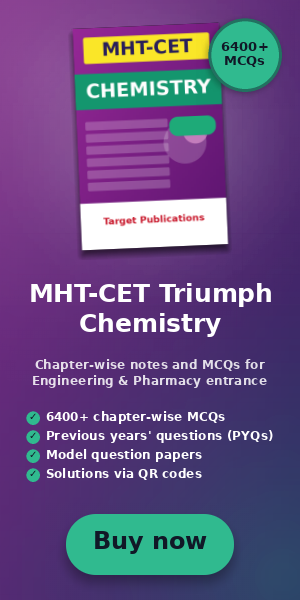
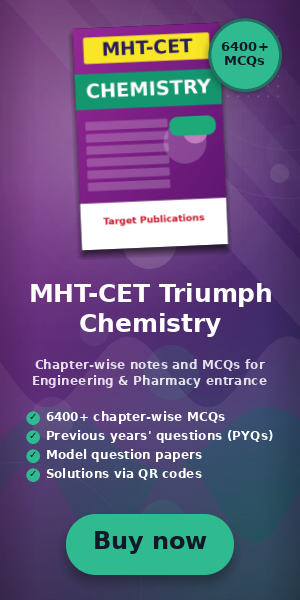
feat: rich "studio" default background
Layered backdrop built from the cover colours: gradient, light beams, accent
blooms, rings, waves, dot grid, bokeh and vignette. New 'studio' and 'waves'
styles; 'auto' now means studio. 'mesh' stays as the simple option.

diff --git a/src/Ads/Backgrounds.php b/src/Ads/Backgrounds.php
@@ -11,7 +11,7 @@ use Packitifotech\Laragdads\Services\Image\ImageService;
 /**
  * Background painters. A painter is `fn (Canvas $canvas, AdSpec $spec, Theme $theme): void`.
  *
- * Built-in modern styles, all coloured from the cover/brand: auto (mesh), mesh, lines, bokeh, hex, gradient,
+ * Built-in modern styles, all coloured from the cover/brand: auto (= studio, the richest), studio, waves, mesh, lines, bokeh, hex, gradient,
  * solid, blur.
  * Legacy styles (wave1, wave, abstract, stripes, radial, spotlight, burst, marketing, medical,
  * mobile-dots, mobile-card, mobile-diagonal, mobile-flat) are the original ImageService painters.
@@ -36,7 +36,9 @@ final class Backgrounds
         }
 
         match ($style) {
-            'auto', 'mesh' => self::mesh($canvas, $theme),
+            'auto', 'studio' => self::studio($canvas, $theme),
+            'waves' => self::waves($canvas, $theme),
+            'mesh' => self::mesh($canvas, $theme),
             'lines' => self::lines($canvas, $theme),
             'bokeh' => self::bokeh($canvas, $theme),
             'hex' => self::hex($canvas, $theme),
@@ -51,7 +53,7 @@ final class Backgrounds
     public static function names(): array
     {
         return array_values(array_unique(array_merge(
-            ['auto', 'mesh', 'lines', 'bokeh', 'hex', 'gradient', 'solid', 'blur'],
+            ['auto', 'studio', 'waves', 'mesh', 'lines', 'bokeh', 'hex', 'gradient', 'solid', 'blur'],
             array_keys(self::legacyMap()),
             array_keys(self::$custom)
         )));
@@ -68,6 +70,117 @@ final class Backgrounds
         $canvas->glow((int) ($w * 0.12), (int) ($h * 0.1), (int) ($long * 0.55), Color::lighten($theme->primary, 0.25), 0.55);
         $canvas->glow((int) ($w * 0.92), (int) ($h * 0.95), (int) ($long * 0.6), $theme->accent, 0.28);
         $canvas->glow((int) ($w * 0.62), (int) ($h * 0.2), (int) ($long * 0.35), Color::lighten($theme->secondary, 0.3), 0.3);
+    }
+
+    /**
+     * The default: a layered, "designed" backdrop. Brand gradient, soft light beams, flowing waves, rings,
+     * a dot grid, bokeh and a vignette. Every element is a translucent tint of the brand colours, so
+     * text contrast stays safe, and it is deterministic for a given size.
+     */
+    private static function studio(Canvas $canvas, Theme $theme): void
+    {
+        $w = $canvas->width();
+        $h = $canvas->height();
+        $long = max($w, $h);
+        $rand = self::rng($w * 13 + $h * 7);
+        $tint = Color::lighten($theme->primary, 0.6);
+        $tint2 = Color::lighten($theme->secondary, 0.5);
+
+        self::mesh($canvas, $theme);
+        // Extra warmth: an accent-coloured bloom low on the canvas and a bright one top-left.
+        $canvas->glow((int) ($w * 0.7), (int) ($h * 1.0), (int) ($long * 0.5), $theme->accent, 0.22);
+        $canvas->glow((int) ($w * 0.25), (int) ($h * 0.2), (int) ($long * 0.4), Color::lighten($theme->primary, 0.5), 0.3);
+
+        // Soft diagonal light beams from the top-left.
+        $canvas->decor(function ($layer, int $k) use ($w, $h, $canvas) {
+            $white = [255, 255, 255];
+            foreach ([[0.02, 0.22, 0.07], [0.30, 0.50, 0.05], [0.62, 0.74, 0.04]] as [$a, $b, $alpha]) {
+                imagefilledpolygon($layer, [
+                    (int) ($w * $a * $k), 0,
+                    (int) ($w * $b * $k), 0,
+                    (int) (($w * $b + $h * 0.9) * $k), $h * $k,
+                    (int) (($w * $a + $h * 0.9) * $k), $h * $k,
+                ], $canvas->colorOn($layer, $white, $alpha));
+            }
+        });
+
+        // Large outlined rings at the corners.
+        $canvas->decor(function ($layer, int $k) use ($w, $h, $long, $tint, $canvas) {
+            imagesetthickness($layer, max(2, (int) round($long * 0.004 * $k)));
+            $ring = $canvas->colorOn($layer, $tint, 0.16);
+            foreach ([[0.96, 0.08, 0.34], [0.05, 0.98, 0.42], [0.96, 0.08, 0.5]] as [$x, $y, $d]) {
+                imageellipse($layer, (int) ($w * $x * $k), (int) ($h * $y * $k), (int) ($long * $d * $k), (int) ($long * $d * $k), $ring);
+            }
+        });
+
+        self::drawWaves($canvas, $theme, $rand, 3);
+
+        // Dot grid patch.
+        $gap = max(10, (int) round($long / 60));
+        $canvas->decor(function ($layer, int $k) use ($w, $h, $gap, $tint, $canvas) {
+            $dot = $canvas->colorOn($layer, $tint, 0.3);
+            $x0 = (int) ($w * 0.66);
+            $cols = 9;
+            $rows = max(3, (int) min(7, $h / $gap / 3));
+            for ($r = 0; $r < $rows; $r++) {
+                for ($c = 0; $c < $cols; $c++) {
+                    imagefilledellipse($layer, ($x0 + $c * $gap) * $k, (int) ($h * 0.06 + $r * $gap) * $k, 2 * $k, 2 * $k, $dot);
+                }
+            }
+        });
+
+        // A little bokeh.
+        $palette = [$tint, $theme->accent, $tint2, [255, 255, 255]];
+        for ($i = 0, $n = 7 + (int) round($long / 200); $i < $n; $i++) {
+            $d = (int) round((0.03 + $rand() * 0.1) * $long);
+            $canvas->circle((int) ($rand() * $w), (int) ($rand() * $h), max(8, $d), $palette[$i % 4], 0.06 + $rand() * 0.1);
+        }
+
+        self::vignette($canvas);
+    }
+
+    /** Flowing translucent wave bands across the lower part of the canvas. */
+    private static function waves(Canvas $canvas, Theme $theme): void
+    {
+        self::mesh($canvas, $theme);
+        self::drawWaves($canvas, $theme, self::rng($canvas->width() * 5 + $canvas->height()), 4);
+        self::vignette($canvas);
+    }
+
+    private static function drawWaves(Canvas $canvas, Theme $theme, \Closure $rand, int $bands): void
+    {
+        $w = $canvas->width();
+        $h = $canvas->height();
+        $tints = [Color::lighten($theme->primary, 0.5), $theme->accent, Color::lighten($theme->secondary, 0.45)];
+
+        $canvas->decor(function ($layer, int $k) use ($w, $h, $rand, $bands, $tints, $canvas) {
+            for ($b = 0; $b < $bands; $b++) {
+                $base = $h * (0.62 + $b * 0.11);
+                $amp = $h * (0.05 + $rand() * 0.05);
+                $freq = (0.8 + $rand() * 1.4) * M_PI * 2 / $w;
+                $phase = $rand() * M_PI * 2;
+                $pts = [0, $h * $k];
+                for ($x = 0; $x <= $w; $x += max(4, intdiv($w, 120))) {
+                    $pts[] = $x * $k;
+                    $pts[] = (int) (($base + sin($x * $freq + $phase) * $amp) * $k);
+                }
+                $pts[] = $w * $k;
+                $pts[] = $h * $k;
+                imagefilledpolygon($layer, $pts, $canvas->colorOn($layer, $tints[$b % 3], 0.13 + $b * 0.035));
+            }
+        });
+    }
+
+    /** Darken the edges slightly so the eye settles on the centre. */
+    private static function vignette(Canvas $canvas): void
+    {
+        $w = $canvas->width();
+        $h = $canvas->height();
+        $black = [0, 0, 0];
+        $canvas->gradient($black, $black, 'vertical', [0, 0, $w, (int) ($h * 0.3)], 0.22, 0.0);
+        $canvas->gradient($black, $black, 'vertical', [0, (int) ($h * 0.7), $w, $h - (int) ($h * 0.7)], 0.0, 0.28);
+        $canvas->gradient($black, $black, 'horizontal', [0, 0, (int) ($w * 0.12), $h], 0.16, 0.0);
+        $canvas->gradient($black, $black, 'horizontal', [(int) ($w * 0.88), 0, $w - (int) ($w * 0.88), $h], 0.0, 0.16);
     }
 
     /** Long, thin crossing lines in a lighter tone of the brand colour (the classic "ad strip" look). */

diff --git a/tests/AdBuilderTest.php b/tests/AdBuilderTest.php
@@ -248,11 +248,21 @@ final class AdBuilderTest extends TestCase
         $render = fn (string $bg) => AdBuilder::make()->size(AdSize::STRIP)->images($book, $book)->background($bg)->headline('Hi')->toPng();
 
         $mesh = $render('mesh');
-        foreach (['lines', 'bokeh', 'hex'] as $style) {
+        foreach (['studio', 'waves', 'lines', 'bokeh', 'hex'] as $style) {
             $this->assertSame(1200, imagesx($this->decode($render($style))), $style);
             $this->assertNotSame($mesh, $render($style), $style);
         }
         $this->assertSame($render('lines'), $render('lines'), 'patterns are deterministic');
+    }
+
+    public function test_default_background_is_the_rich_studio_style(): void
+    {
+        $book = $this->packshot();
+        $ad = fn (?string $bg) => ($bg ? AdBuilder::make()->background($bg) : AdBuilder::make())
+            ->size(AdSize::LANDSCAPE)->images($book)->headline('Hi')->toPng();
+
+        $this->assertSame($ad('studio'), $ad(null));
+        $this->assertNotSame($ad('mesh'), $ad(null));
     }
 
     public function test_title_with_pipe_is_split_into_headline_and_subheadline(): void

diff --git a/README.md b/README.md
@@ -23,7 +23,7 @@ The images above come from `php examples/generate.php`.
 - **Packshot cut-out**: a flat white studio background is removed, white areas inside the product are kept, and the baked-in drop shadow turns into a real soft shadow.
 - **Auto-fitting text**: headline, sub-headline and tick-list shrink and wrap to fit any size; text that cannot fit is ellipsised.
 - **Elements**: CTA button, round badge (`-30%`, `NEW`), logo, tick-list of selling points.
-- **Backgrounds drawn from the covers**: `auto`/`mesh`, `lines`, `bokeh`, `hex`, `gradient`, `solid`, `blur`. The colours come from the front cover (the back cover only adds supporting tones). Plus the original `wave1`, `stripes`, `radial`, `spotlight`, `burst`, `medical`, ... and your own via `Backgrounds::register()`.
+- **Backgrounds drawn from the covers**: the default `auto` (= `studio`) is a layered design: brand gradient, light beams, flowing waves, rings, dot grid, bokeh and a vignette. Also `waves`, `mesh` (simple), `lines`, `bokeh`, `hex`, `gradient`, `solid`, `blur`. The colours come from the front cover (the back cover only adds supporting tones). Plus the original `wave1`, `stripes`, `radial`, `spotlight`, `burst`, `medical`, ... and your own via `Backgrounds::register()`.
 - **Output**: `toPng()`, `toJpg()`, `toWebp()`, `toDataUri()`, `save($path)`, `saveTo($storagePath, $disk)`.
 
 ## Requirements
